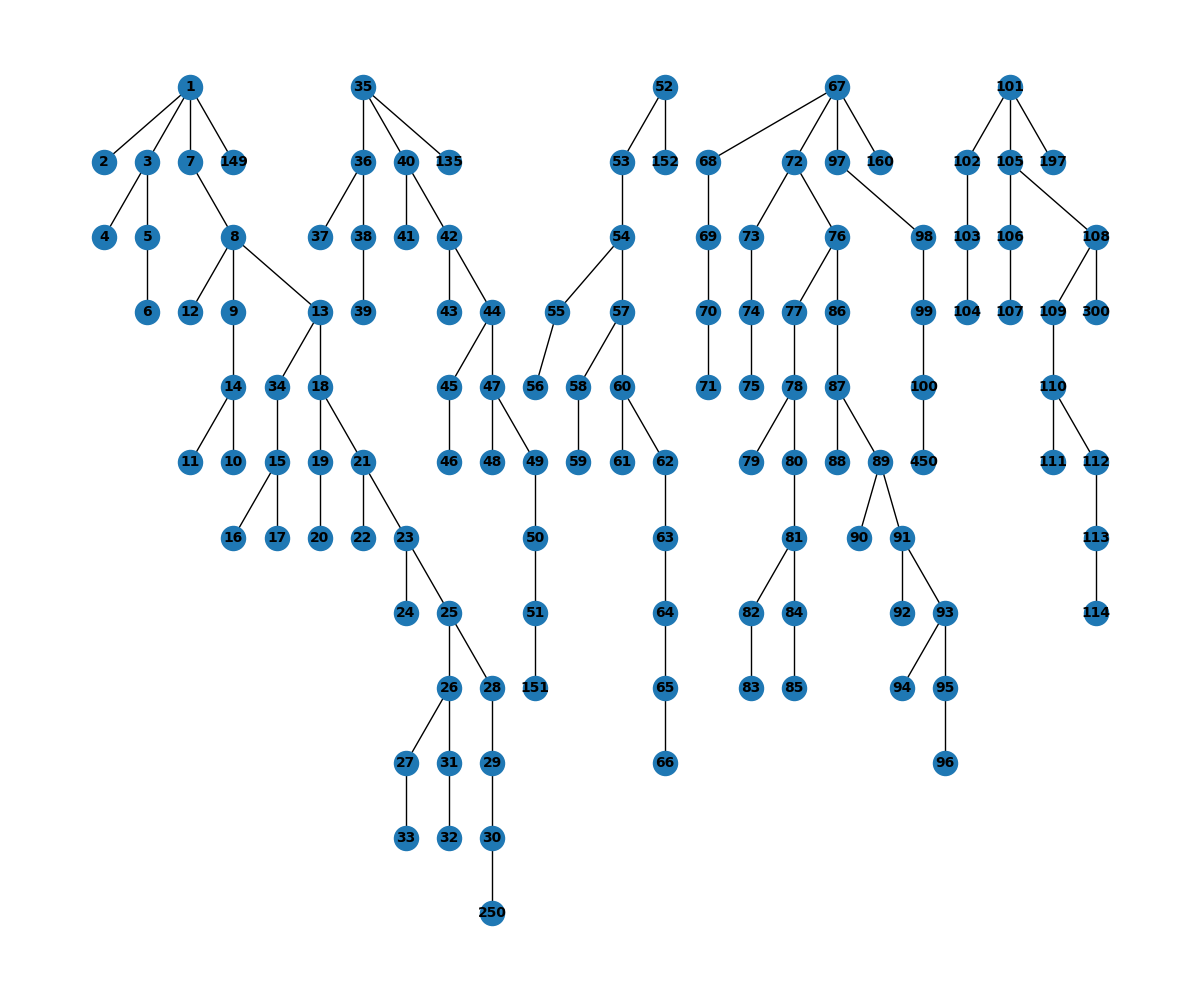
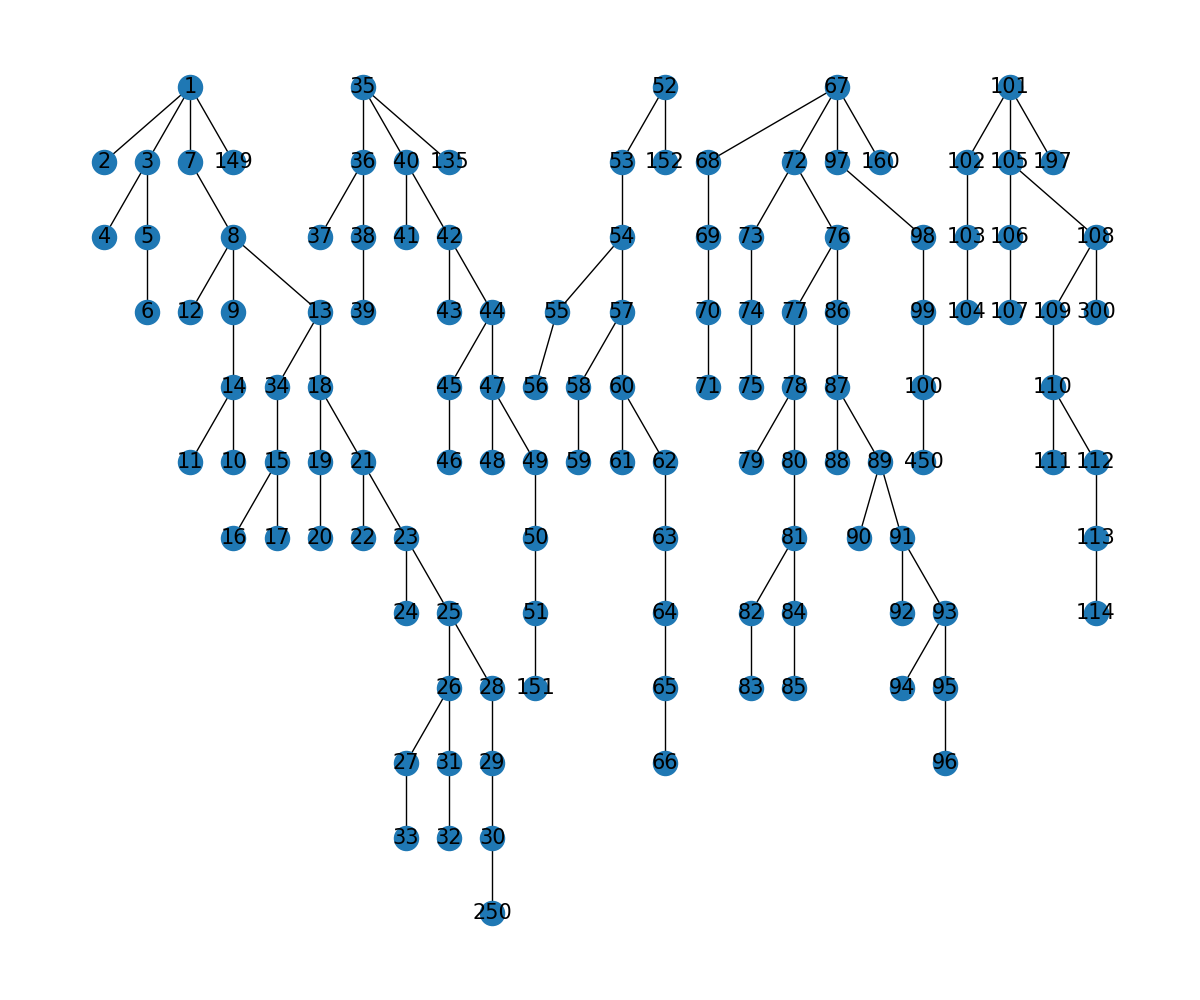
changed path color/width

diff --git a/hw1/hw1.py b/hw1/hw1.py
@@ -28,7 +28,7 @@ if __name__ == "__main__":
     fig = plt.figure(figsize=(12, 10))
     graph123 = nx.read_weighted_edgelist("HW1_2026/ieee123.edgelist")
     positions123 = nx.nx_agraph.graphviz_layout(graph123, prog="dot")
-    nx.draw(graph123, positions123, with_labels=True, font_size=10, font_weight="bold")
+    nx.draw(graph123, positions123, with_labels=True, font_size=15)
     plt.savefig('ieee123_graph.png')
     plt.close()
     
@@ -61,7 +61,7 @@ if __name__ == "__main__":
     print(f'IEEE30 Cycle Example:\t{cycle_path}')
     fig = plt.figure(figsize=  (12, 10))
     nx.draw(graph30, positions30, with_labels=True)
-    nx.draw_networkx_edges(graph30, positions30, edgelist=cycle_path, edge_color = 'red')
+    nx.draw_networkx_edges(graph30, positions30, edgelist=cycle_path, edge_color = 'green', width=10)
     plt.savefig('ieee30_cycle.png')
     plt.close()    
         
@@ -100,7 +100,7 @@ if __name__ == "__main__":
     print(f" The shortest path from {initial_node} to {terminal_node} is {shortest_path}")
     fig = plt.figure(figsize=  (12, 10))
     nx.draw(graph30, positions30, with_labels = True)
-    nx.draw_networkx_edges(graph30, positions30, edgelist =shortest_path_edges, edge_color='red')
+    nx.draw_networkx_edges(graph30, positions30, edgelist =shortest_path_edges, edge_color='green', width = 10)
     plt.savefig('ieee30_shortest_path.png')
     
     plt.close()
@@ -137,4 +137,4 @@ if __name__ == "__main__":
     pos = flow_layout(G, 's', 't')
     fig = plt.figure(figsize = (12, 10))
     nx.draw(G, pos, with_labels=True)
-    plt.show()
+    # plt.show()
